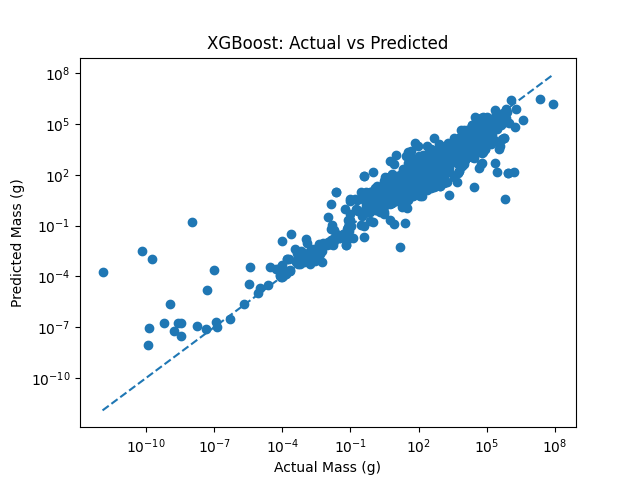
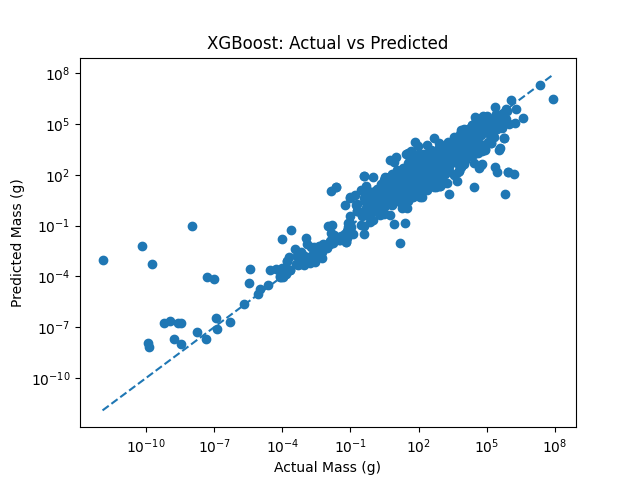
Updated the model to handle unknown categories.

diff --git a/predictive_models/decision_tree.py b/predictive_models/decision_tree.py
@@ -8,6 +8,7 @@ import matplotlib.pyplot as plt
 import numpy as np
 import pandas as pd
 import xgboost as xgb
+import pickle
 from sklearn.metrics import mean_squared_error, r2_score
 
 # import training and testing data
@@ -31,20 +32,40 @@ x_train = train.drop(["mass_g"], axis=1)
 y_test = test["mass_g"]
 x_test = test.drop(["mass_g"], axis=1)
 
-combined = pd.concat([x_train, x_test], axis=0)
+def align_categories(train_df, test_df):
+    """
+    This function ensures that both the test and training set contain
+    all unique categories from both sets for each column.
+    It also adds
 
-for col in combined.columns:
-    if combined[col].dtype == "object":
+    Args:
+        train_df (pandas dataframe): _description_
+        test_df (pandas dataframe): _description_
 
-        combined[col] = combined[col].astype("category")
+    Returns:
+        a tuple of the reformatted x_train and x_test with shared categories and UNK added
+    """
+    for col in train_df.select_dtypes(include="object").columns:
+        train_df[col] = train_df[col].astype("category")
+        test_df[col] = test_df[col].astype("category")
 
-x_train = combined.iloc[: len(x_train)].copy()
-x_test = combined.iloc[len(x_train) :].copy()
+        # adds the UNK category and both train and test categories
+        categories = list(set(train_df[col].cat.categories) |
+                          set(list(test_df[col].cat.categories)) |
+                          {"UNK"})
 
+        train_df[col] = train_df[col].cat.set_categories(categories)
+        test_df[col] = test_df[col].cat.set_categories(categories)
+
+    return train_df, test_df
+
+x_train, x_test = align_categories(x_train, x_test)
+
+# define model hyperparameters
 model = xgb.XGBRegressor(
     objective="reg:absoluteerror",
-    n_estimators=700,
-    max_depth=100,
+    n_estimators=1000,
+    max_depth=50,
     learning_rate=0.05,
     subsample=0.8,
     colsample_bytree=0.8,
@@ -52,14 +73,13 @@ model = xgb.XGBRegressor(
     random_state=42,
 )
 
-
+# train the model
 model.fit(x_train, y_train)
 
+# evaluate the test set
 y_pred = model.predict(x_test)
 
 # evaluate in log space
-rmse = np.sqrt(mean_squared_error(y_test, y_pred))
-
 rmse = np.sqrt(mean_squared_error(y_test, y_pred))
 r2 = r2_score(y_test, y_pred)
 
@@ -80,3 +100,21 @@ plt.plot([y_test.min(), y_test.max()], [y_test.min(), y_test.max()], "--")
 
 plt.savefig("xgboost_mass_prediction.png")
 plt.show()
+
+# Test if unknown values will cause the model to crash in eval
+print("\n")
+print("-" * 80)
+print("\n")
+for col in x_train.select_dtypes(include="category").columns:
+    unk_test = x_test.iloc[[0]].copy()
+    unk_test[col] = "UNK"
+    unk_test[col] = pd.Categorical(
+        unk_test[col],
+        categories=x_train[col].cat.categories
+    )
+    print(unk_test)
+    print("Ground Truth Mass:", y_test.iloc[0])
+    pred = model.predict(unk_test)
+    print("Predicted Log Mass:", pred)
+    print("Predicted Mass:", np.pow(10, pred))
+    
